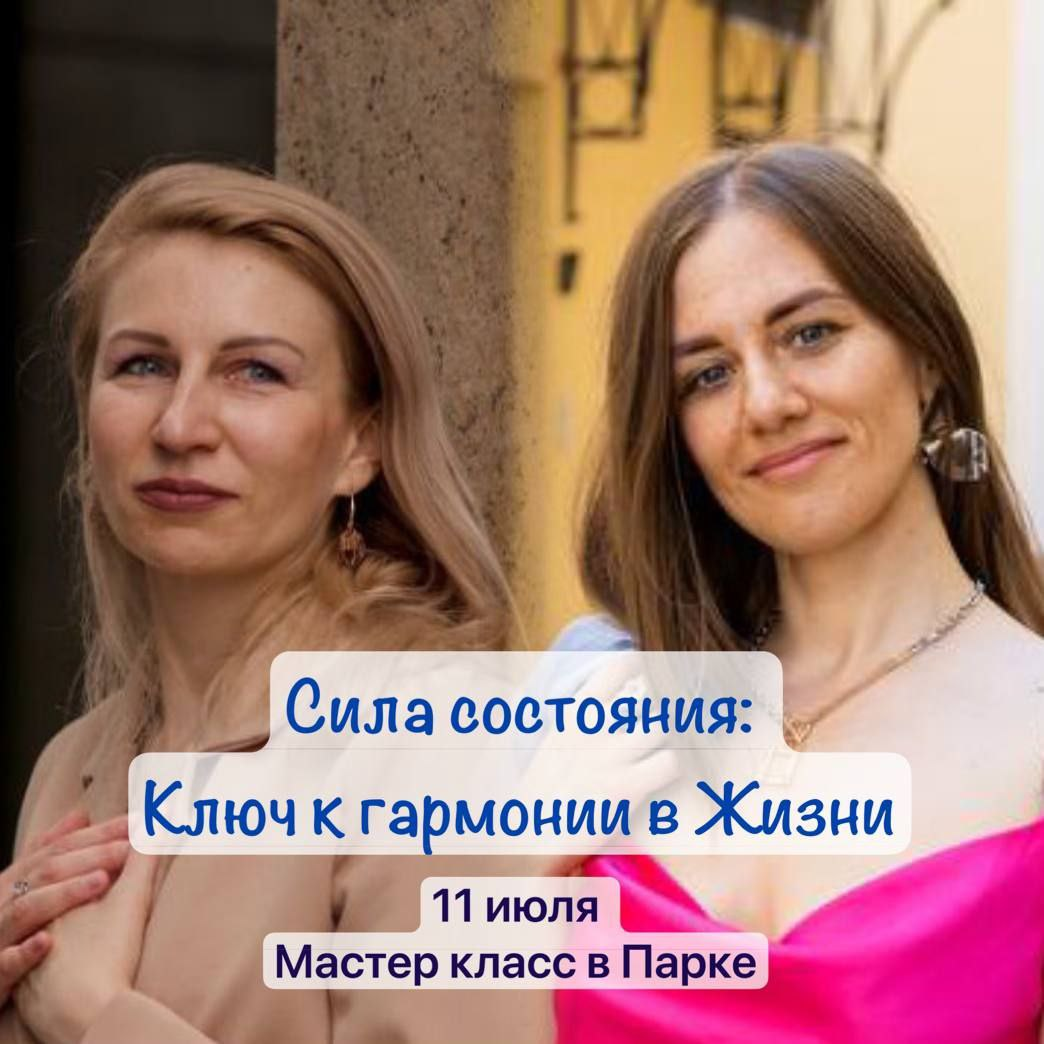
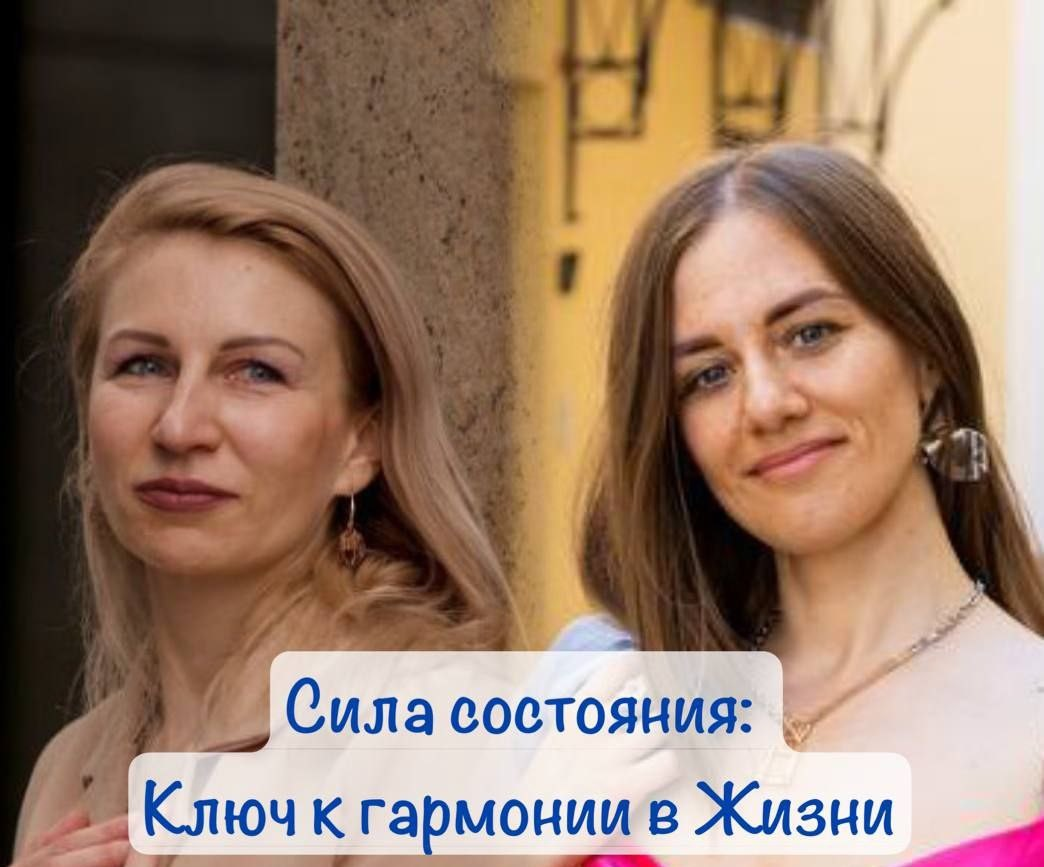
add changes

diff --git a/news.html b/news.html
@@ -65,7 +65,7 @@
         <img class="events__point__box1" src="./assets/images/news3.jpeg" alt="person_photo"/>
 
         <p class="events__point__text1">
-          <span class="block-5_text-bold">11 июля мы встретимся для того, чтобы: </span><br />
+          <span class="block-5_text-bold">21 июля в 16ч. мы встретимся для того, чтобы: </span><br />
 
           ⭐Наполниться энергией <br />
           💖Прокачать свою сексуальность <br />
@@ -81,7 +81,7 @@
           🔥Не устраивают отношения или их нет <br />
           🔥Ощущаешь недостаток энергии <br />
           🔥Занимаешься самокопаниями и обучениями, а результата нет <br />
-          🔥Чувствуешь нехватку денег или не можешь пробить свой стеклянный потолок</p> <br />
+          🔥Чувствуешь нехватку денег или не можешь пробить свой стеклянный потолок</p>
 
         <p class="events__point__text1">
           <span class="block-5_text-bold">За 1 встречу ты:</span><br />

diff --git a/index.html b/index.html
@@ -93,11 +93,11 @@
             <a href="contact.html" class="services__button">Записаться</a>
           </div>
         </div>
-        <div class="events__point">
+        <div class="events__point1">
           <div><img class="events__point__box1" src="./assets/images/news3.jpeg" alt="person_photo"/></div>
           <div class="events__point__box">
             <span class="events__point__text">Сила состояния - как ключ к гармонии в жизни</span>
-            <p class="events__point__text1">11.07.2024 <br> на природе в парке в центре Москве</p>
+            <p class="events__point__text1">21.07.2024 в 16ч. на природе в парке в центре Москве</p>
             <a href="news.html" class="services__button">Узнать подробнее</a>
             <a href="contact.html" class="services__button">Записаться</a>
           </div>

diff --git a/assets/styles/style.css b/assets/styles/style.css
@@ -288,6 +288,7 @@
   border-top-left-radius: 3vw;
   border-bottom-right-radius: 3vw;
   overflow: hidden;
+  margin-bottom: 1vw;
 }
 
 .events__point__text1 {
